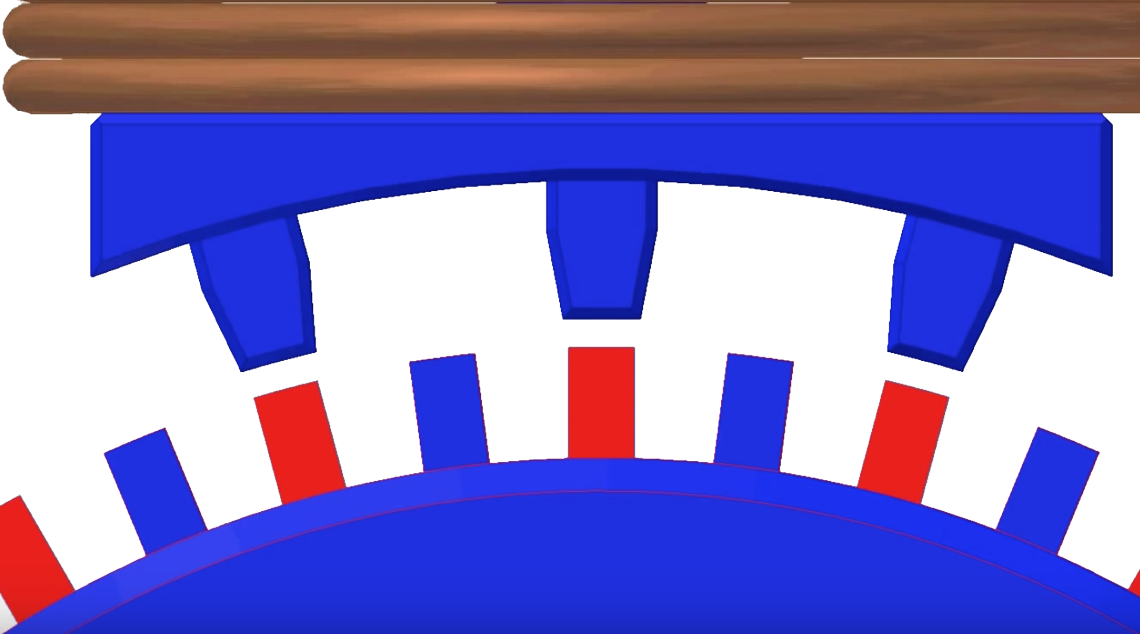
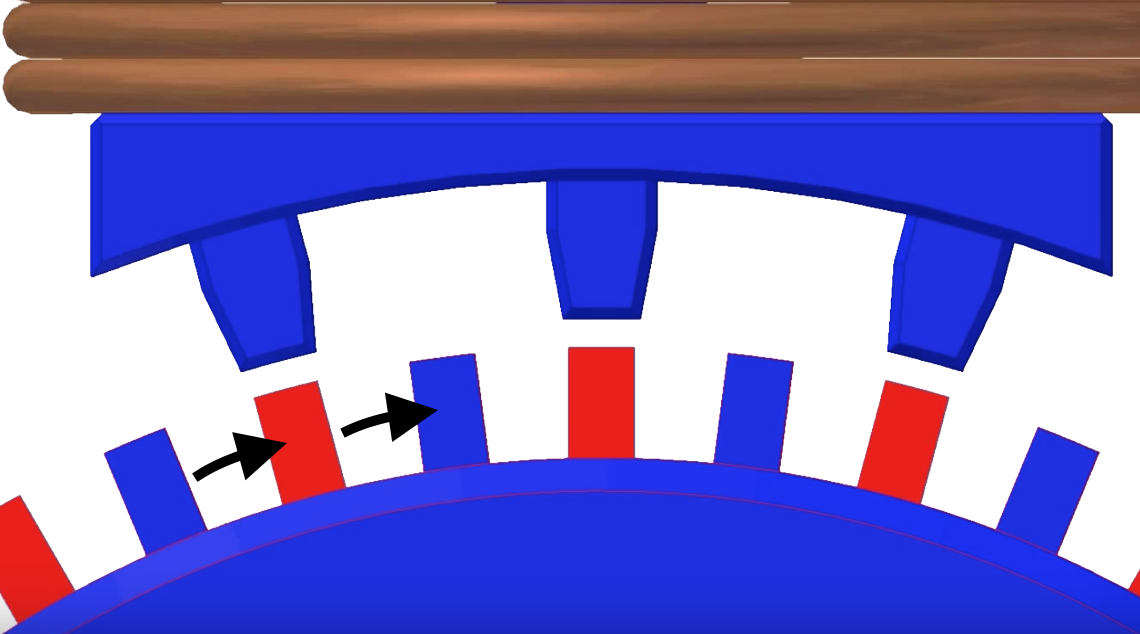
Término da parte de funcionamento do HSM
parte finalizada

Changed region(s): [[0.2763, 0.5994, 0.3991, 0.6893], [0.1535, 0.6893, 0.2456, 0.7492]]

diff --git a/src/PrincipioDeFuncionamentoHSM.tex b/src/PrincipioDeFuncionamentoHSM.tex
@@ -52,18 +52,20 @@ Como explanado anteriormente, o motor de passo híbrido congrega característica
 	\begin{figure}[!h]
 		\centering 
 		\includegraphics[scale=0.2]{images/hsm_operation/rotormag1}
-		\caption{Rotor simplificado de HSM}
+		\caption{Material ferromagnético do rotor simplificado de um HSM (Sem dentes)}
 		\label{rotor1}
 	\end{figure}
 	
-	Ao rotor mostrado na Fig. \ref{rotor1}, adicionam-se os dentes em cada seção polar, conforme Fig. \ref{rotor2}. O número de dentes determina o número de passo por revolução do motor. Também determina a resolução do passo.
+	Ao rotor mostrado na Fig. \ref{rotor1}, adicionam-se os dentes em cada seção polar, conforme Fig. \ref{rotor2}. O número de dentes determina o número de passo por revolução do motor.
 	
 	\begin{figure}[!h]
 		\centering 
 		\includegraphics[scale=0.2]{images/hsm_operation/rotormag2}
-		\caption{Rotor simplificado de HSM com dentes}
+		\caption{Rotor simplificado de um HSM (Com dentes)}
 		\label{rotor2}
 	\end{figure}
+	
+	O número de dentes também determina a resolução do passo: \emph{quanto mais dentes, menor a resolução}.
 	
 	De acordo com a Fig. \ref{rotor3}, verifica-se que os dentes de cada seção polar são espaçados com uma certa compensação devido a alinhação dos dentes. 
 	
@@ -74,7 +76,7 @@ Como explanado anteriormente, o motor de passo híbrido congrega característica
 		\label{rotor3}
 	\end{figure}
 	
-	Essa compensação funciona da seguinte forma: \emph{um dente de uma seção está sempre entre dois dentes da outra seção}. Visualmente, temos a seguinte distribuição de dentes representada na Fig. \ref{rotor4}.
+	Essa compensação funciona da seguinte forma: \emph{um dente de uma seção está sempre entre dois dentes da outra seção, alternando esta sequência}. Visualmente, temos a seguinte distribuição de dentes representada na Fig. \ref{rotor4}.
 	
 	\begin{figure}[!h]
 		\centering 
@@ -83,14 +85,67 @@ Como explanado anteriormente, o motor de passo híbrido congrega característica
 		\label{rotor4}
 	\end{figure}
 	
-	Considerando um estator simples de duas fases com quatro enrolamentos, insere-se os enrolamentos na expressão gráfica apresentada anteriormente na Fig. \ref{rotor3}. O HSM simplificado para fins de explicação está representado na Fig \ref{hsm_superior}. 
+	Considerando um estator simples, com núcleo de metal, de duas fases com quatro enrolamentos, cada fase com dois enrolamentos (enrolamentos ligados em série), insere-se os enrolamentos na expressão gráfica apresentada anteriormente na Fig. \ref{rotor3}. O HSM simplificado para fins de explicação está representado na Fig \ref{hsm_superior}. 
 	
 	 \begin{figure}[!h]
 		\centering 
 		\includegraphics[scale=0.3]{images/hsm_operation/etapa1}
-		\caption{Visão superior de um HSM com estator e rotor}
+		\caption{Visão superior de um HSM, com estator e rotor em destaque}
 		\label{hsm_superior}
 	\end{figure}
 	
+	Com o estator e o rotor juntos, o princípio de funcionamento baseia-se em acionar uma das fases com um determinado sentido de corrente com o objetivo de magnetizar o núcleo metálico do estator.
 	
+	Em um dado momento, antes de acionar as bobinas de uma das fases, o estator se encontra em um estágio conforme a Fig. \ref{passo1}. 
+	
+	\begin{figure}[!h]
+		\centering 
+		\includegraphics[scale=0.16]{images/hsm_operation/visaopasso1}
+		\caption{Estator e rotor antes do acionamento das bobinas de uma fase}
+		\label{passo1}
+	\end{figure}
+	
+	Conforme a Fig. \ref{passo1}, assim que se aciona uma fase de forma com que a corrente nos enrolamentos crie um campo magnético no núcleo do estator, o estator se encontra com a seguinte polaridade magnética, conforme Fig. \ref{acionamento1}.
+	
+	\begin{figure}[!h]
+		\centering 
+		\includegraphics[scale=0.3]{images/hsm_operation/etapa3}
+		\caption{Estator e rotor do HSM ao acionar uma das fases (núcleos do estator magnetizados horizontalmente)}
+		\label{acionamento1}
+	\end{figure}
+	
+	É importante relatar que os enrolamentos acionados estão em \textbf{série}, de forma com que o campo magnético direcionado para os dentes do rotor tenham a mesma polaridade. Essa opção de acionamento será melhor explanada na seção de Acionamentos do HSM.
+	
+	Com o núcleo do estator magnetizado como um eletroimã, em que a polaridade NORTE está direcionada ao rotor, tem-se a seguinte representação gráfica conforme a Fig. \ref{passo2}.
+	
+	\begin{figure}[!h]
+		\centering 
+		\includegraphics[scale=0.16]{images/hsm_operation/visaopasso2}
+		\caption{Estator e rotor de um HSM ao acionar uma das fases}
+		\label{passo2}
+	\end{figure}
+	
+	Com isso, \textbf{ocorre uma atração magnética entre o dente da seção SUL do rotor e o dente do estator, polarizado como NORTE} e, de forma análoga, \textbf{ocorre uma repulsão magnética entre o dente da seção SUL do rotor e o dente do estator, polarizado como NORTE}.
+	
+	Esse movimento dos dentes do rotor devido a magnetização do núcleo do estator no motor de passo híbrido é a representação do \textbf{passo} do motor.
+	
+	A movimentação está indicada pelas setas na Fig. \ref{passo3}, conforme foi explanado.
+	
+	\begin{figure}[!h]
+		\centering 
+		\includegraphics[scale=0.16]{images/hsm_operation/visaopasso3}
+		\caption{Movimentação do rotor devido a magnetização do estator}
+		\label{passo3}
+	\end{figure}  
+	
+	Para efetuar mais um passo, basta acionar a outra fase do motor com o mesmo sentido de corrente, de forma com que seja magnetizado os núcleos de metal do estator pelo outro grupo de bobinas, conforme Fig. \ref{acionamento2}.
+	
+	\begin{figure}[!h]
+		\centering 
+		\includegraphics[scale=0.3]{images/hsm_operation/etapa2}
+		\caption{Estator e rotor do HSM ao acionar outra fase (núcleos do estator magnetizados verticalmente)}
+		\label{acionamento2}
+	\end{figure}
+	
+	Repetindo o mesmo procedimento, o motor continuará executando os passos com a angulação determinada pela sequência e forma de acionamento das bobinas. Para \textbf{inverter o sentido de rotação do rotor}, basta inverter o sentido da corrente elétrica que flui pela fase, consequentemente pelos enrolamentos, e magnetizará o núcleo do estator que suporta os enrolamentos, como foi explanado durante toda esta seção do trabalho. 
 	

diff --git a/src/Introducao.tex b/src/Introducao.tex
@@ -1,4 +1,4 @@
-Os motores de passo híbrido, ou \textit{Hybrid Stepper Motor} (da sigla \textbf{HSM}) como são citados na literatura, são comumente utilizados em aplicações que demandam de alta precisão em motores de corrente contínua \cite{ieeeRusso}.
+Os motores de passo híbrido, ou \textit{Hybrid Stepper Motor} (da sigla \textbf{HSM}) como são citados na literatura, são comumente utilizados em aplicações que demandam de alta precisão com motores de alimentação em corrente contínua \cite{ieeeRusso}.
 	
 	O HSM, como será referido neste trabalho, combina as vantagens do motor de relutância variável (\textit{Variable Reluctance Motor}, da sigla \textbf{VRM}) e do motor de imã permanente (\textit{Permanent Magnet Motor}, da sigla \textbf{PMM}).
 	

diff --git a/ME3_MPH.tex b/ME3_MPH.tex
@@ -21,7 +21,7 @@
 \section{Características construtivas}
 	\input{src/CaracteristicasConstrutivas.tex}
 	
-\section{Acionamento do HSM}
+\section{Acionamentos do HSM}
 	\input{src/AcionamentoDoHSM.tex}
 
 \section{Comparação entre os Motores de Passo}
